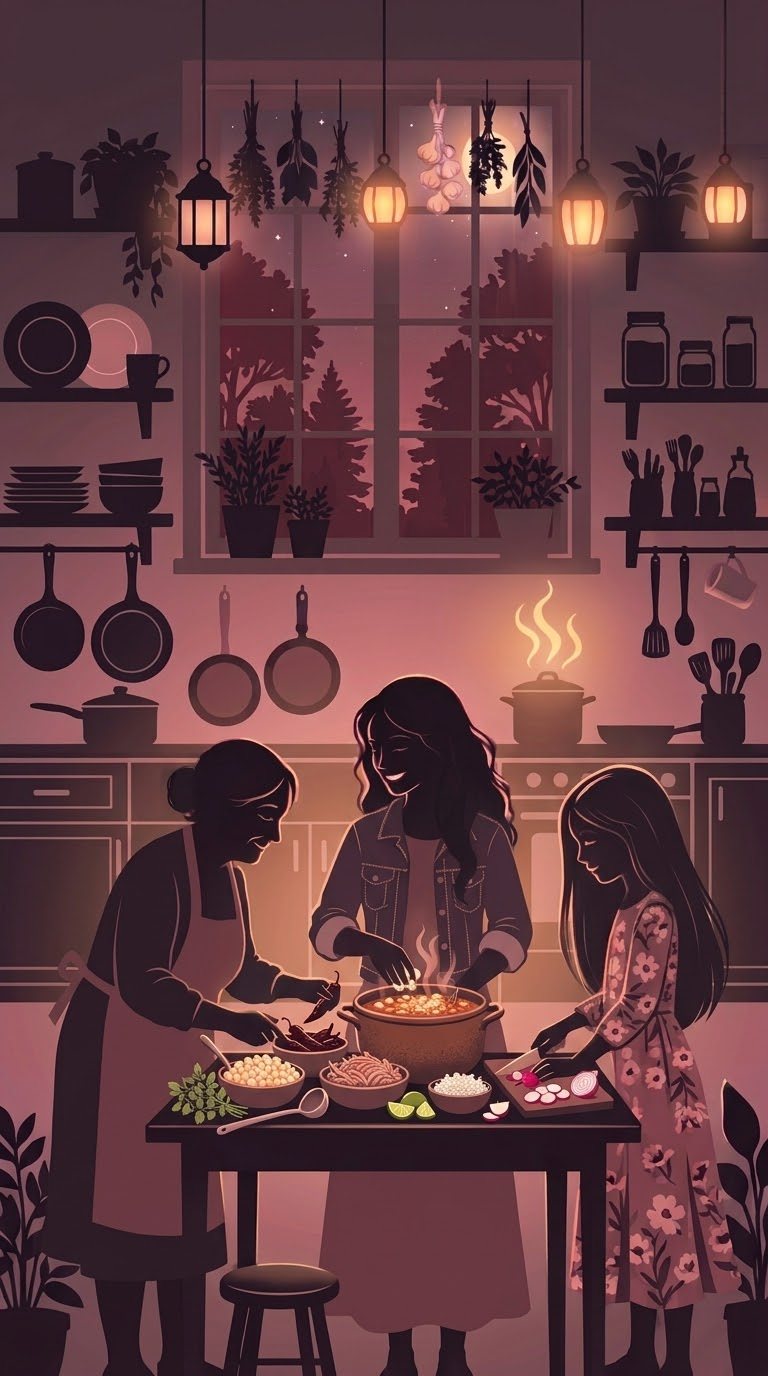
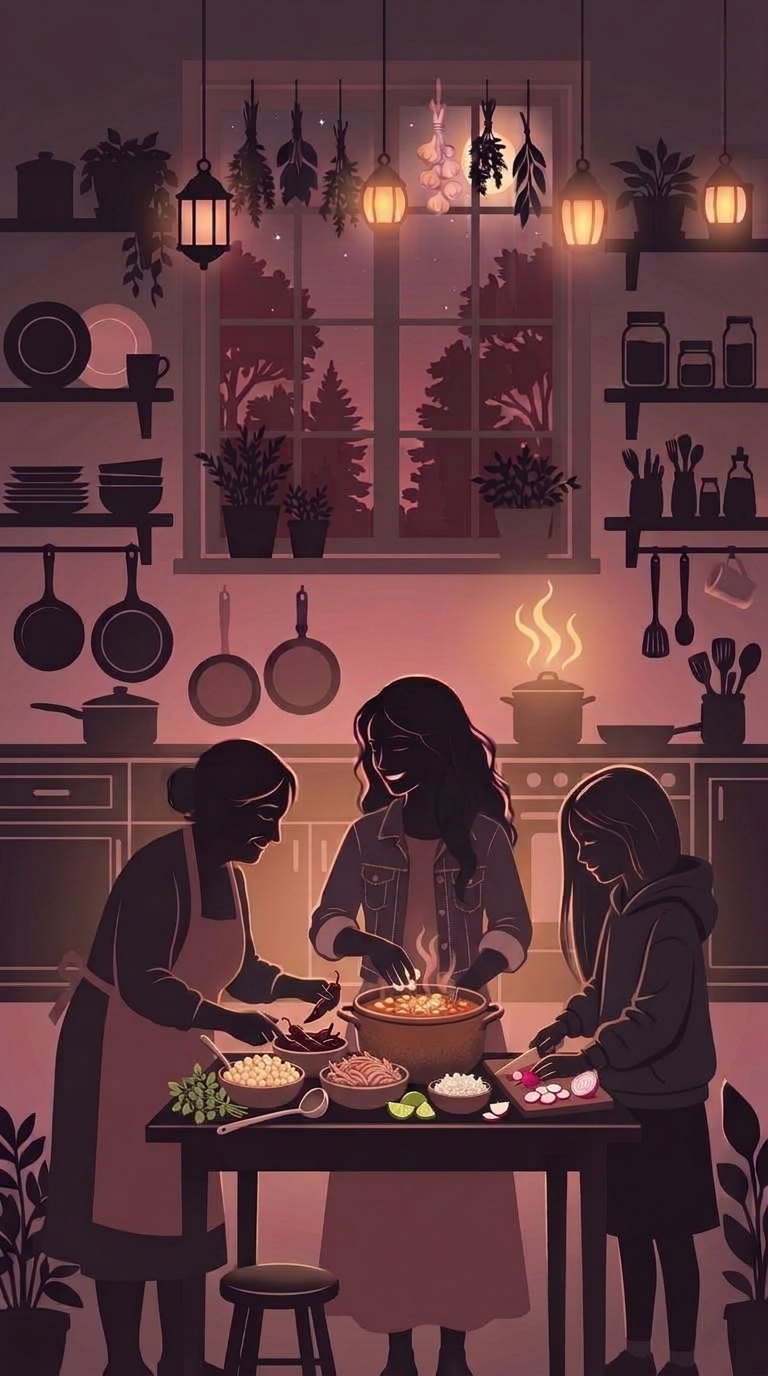
Flavored With Love: new kitchen picture
The daughter's outfit changed in the new artwork. Same size and framing,
so the heads stay above the recipe list. Version tag on the image so
phones load the new one instead of a cached copy.

Claude-Session: https://claude.ai/code/session_01CK3rTgKuzB2dRr4Pf9R39F

diff --git a/recipitas/index.html b/recipitas/index.html
@@ -205,8 +205,8 @@
 </head>
 <body>
 <header><h1 id="title"><span class="brand"><span class="reci">Flavored With </span><span class="pitas">L<svg class="heart-o" viewBox="0 0 24 24" aria-hidden="true"><path fill="currentColor" d="M12 21.2l-1.45-1.32C5.4 15.2 2 12.1 2 8.3 2 5.2 4.4 3 7.4 3c1.7 0 3.4.8 4.6 2.1C13.2 3.8 14.9 3 16.6 3 19.6 3 22 5.2 22 8.3c0 3.8-3.4 6.9-8.55 11.58L12 21.2z"/></svg>ve</span></span></h1></header>
-<div class="scene scene-fixed" aria-hidden="true"><img src="kitchen.jpg" alt=""></div>
-<div class="scene scene-home" aria-hidden="true"><img src="kitchen.jpg" alt=""></div>
+<div class="scene scene-fixed" aria-hidden="true"><img src="kitchen.jpg?v=2" alt=""></div>
+<div class="scene scene-home" aria-hidden="true"><img src="kitchen.jpg?v=2" alt=""></div>
 <div class="book"><main id="app" class="page" aria-live="polite"></main></div>
 <nav class="tabs hidden" id="tabs" aria-label="Main">
   <button type="button" data-tab="recipes"><svg viewBox="0 0 24 24" fill="none" stroke="currentColor" stroke-width="2" aria-hidden="true"><path d="M4 4h12a4 4 0 0 1 4 4v12H8a4 4 0 0 1-4-4z"/><path d="M8 9h8M8 13h6"/></svg>Recipes</button>

diff --git a/recipitas/share.html b/recipitas/share.html
@@ -199,7 +199,7 @@
 </head>
 <body class="reading">
 <header><h1 id="title"><span class="brand"><span class="reci">Flavored With </span><span class="pitas">L<svg class="heart-o" viewBox="0 0 24 24" aria-hidden="true"><path fill="currentColor" d="M12 21.2l-1.45-1.32C5.4 15.2 2 12.1 2 8.3 2 5.2 4.4 3 7.4 3c1.7 0 3.4.8 4.6 2.1C13.2 3.8 14.9 3 16.6 3 19.6 3 22 5.2 22 8.3c0 3.8-3.4 6.9-8.55 11.58L12 21.2z"/></svg>ve</span></span></h1></header>
-<div class="scene" aria-hidden="true"><img src="kitchen.jpg" alt=""></div>
+<div class="scene" aria-hidden="true"><img src="kitchen.jpg?v=2" alt=""></div>
 <div class="book"><main id="app" class="page" aria-live="polite"><div class="empty">Loading the recipe…</div></main></div>
 <script>
 "use strict";
